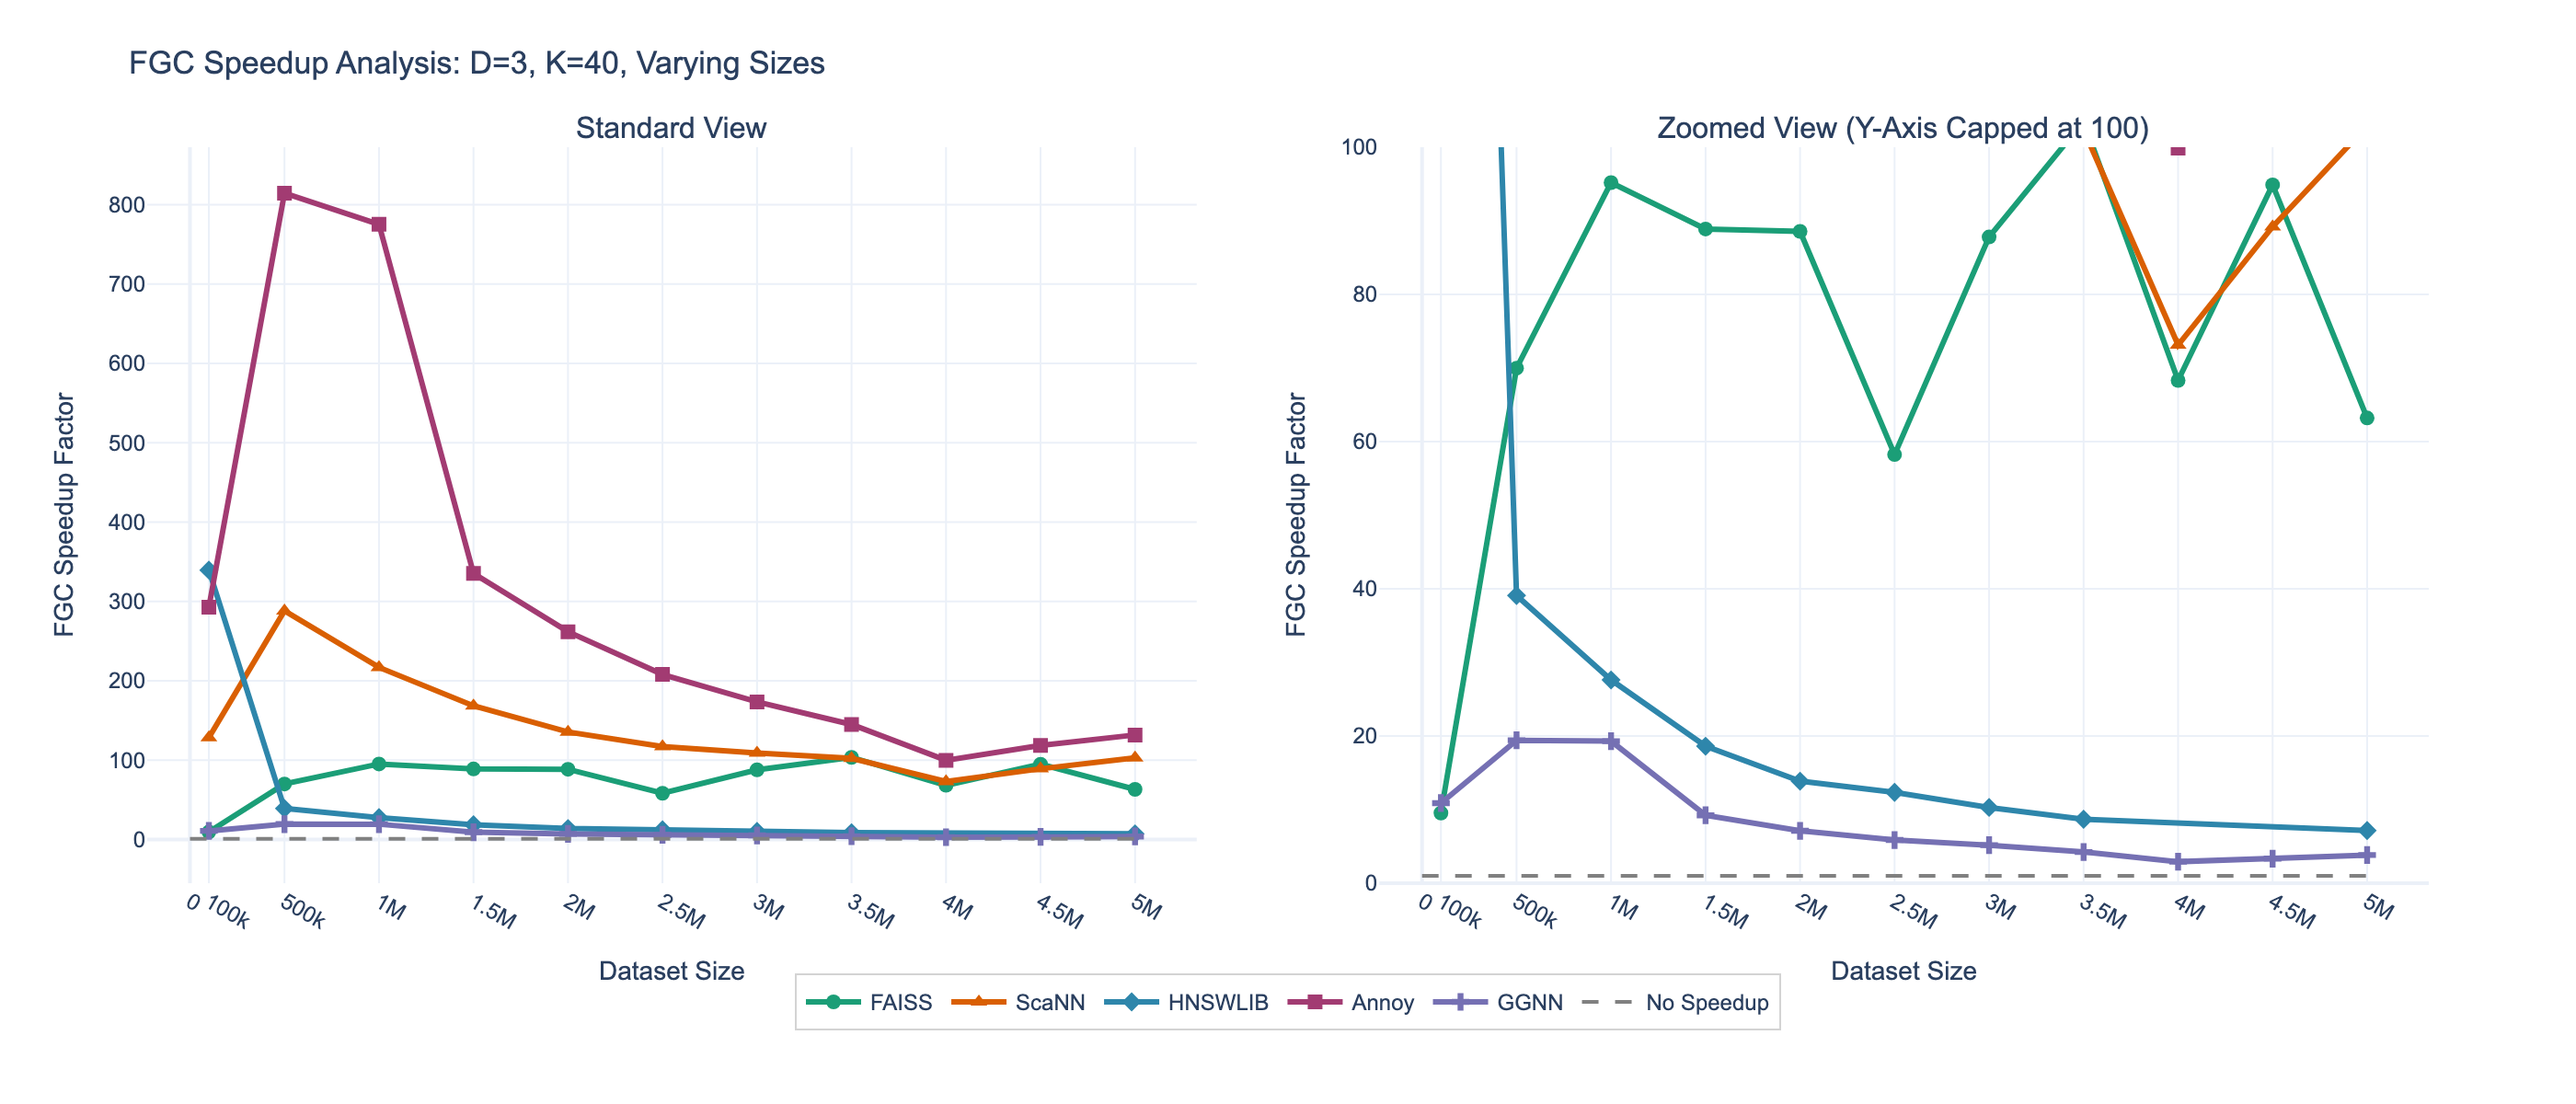
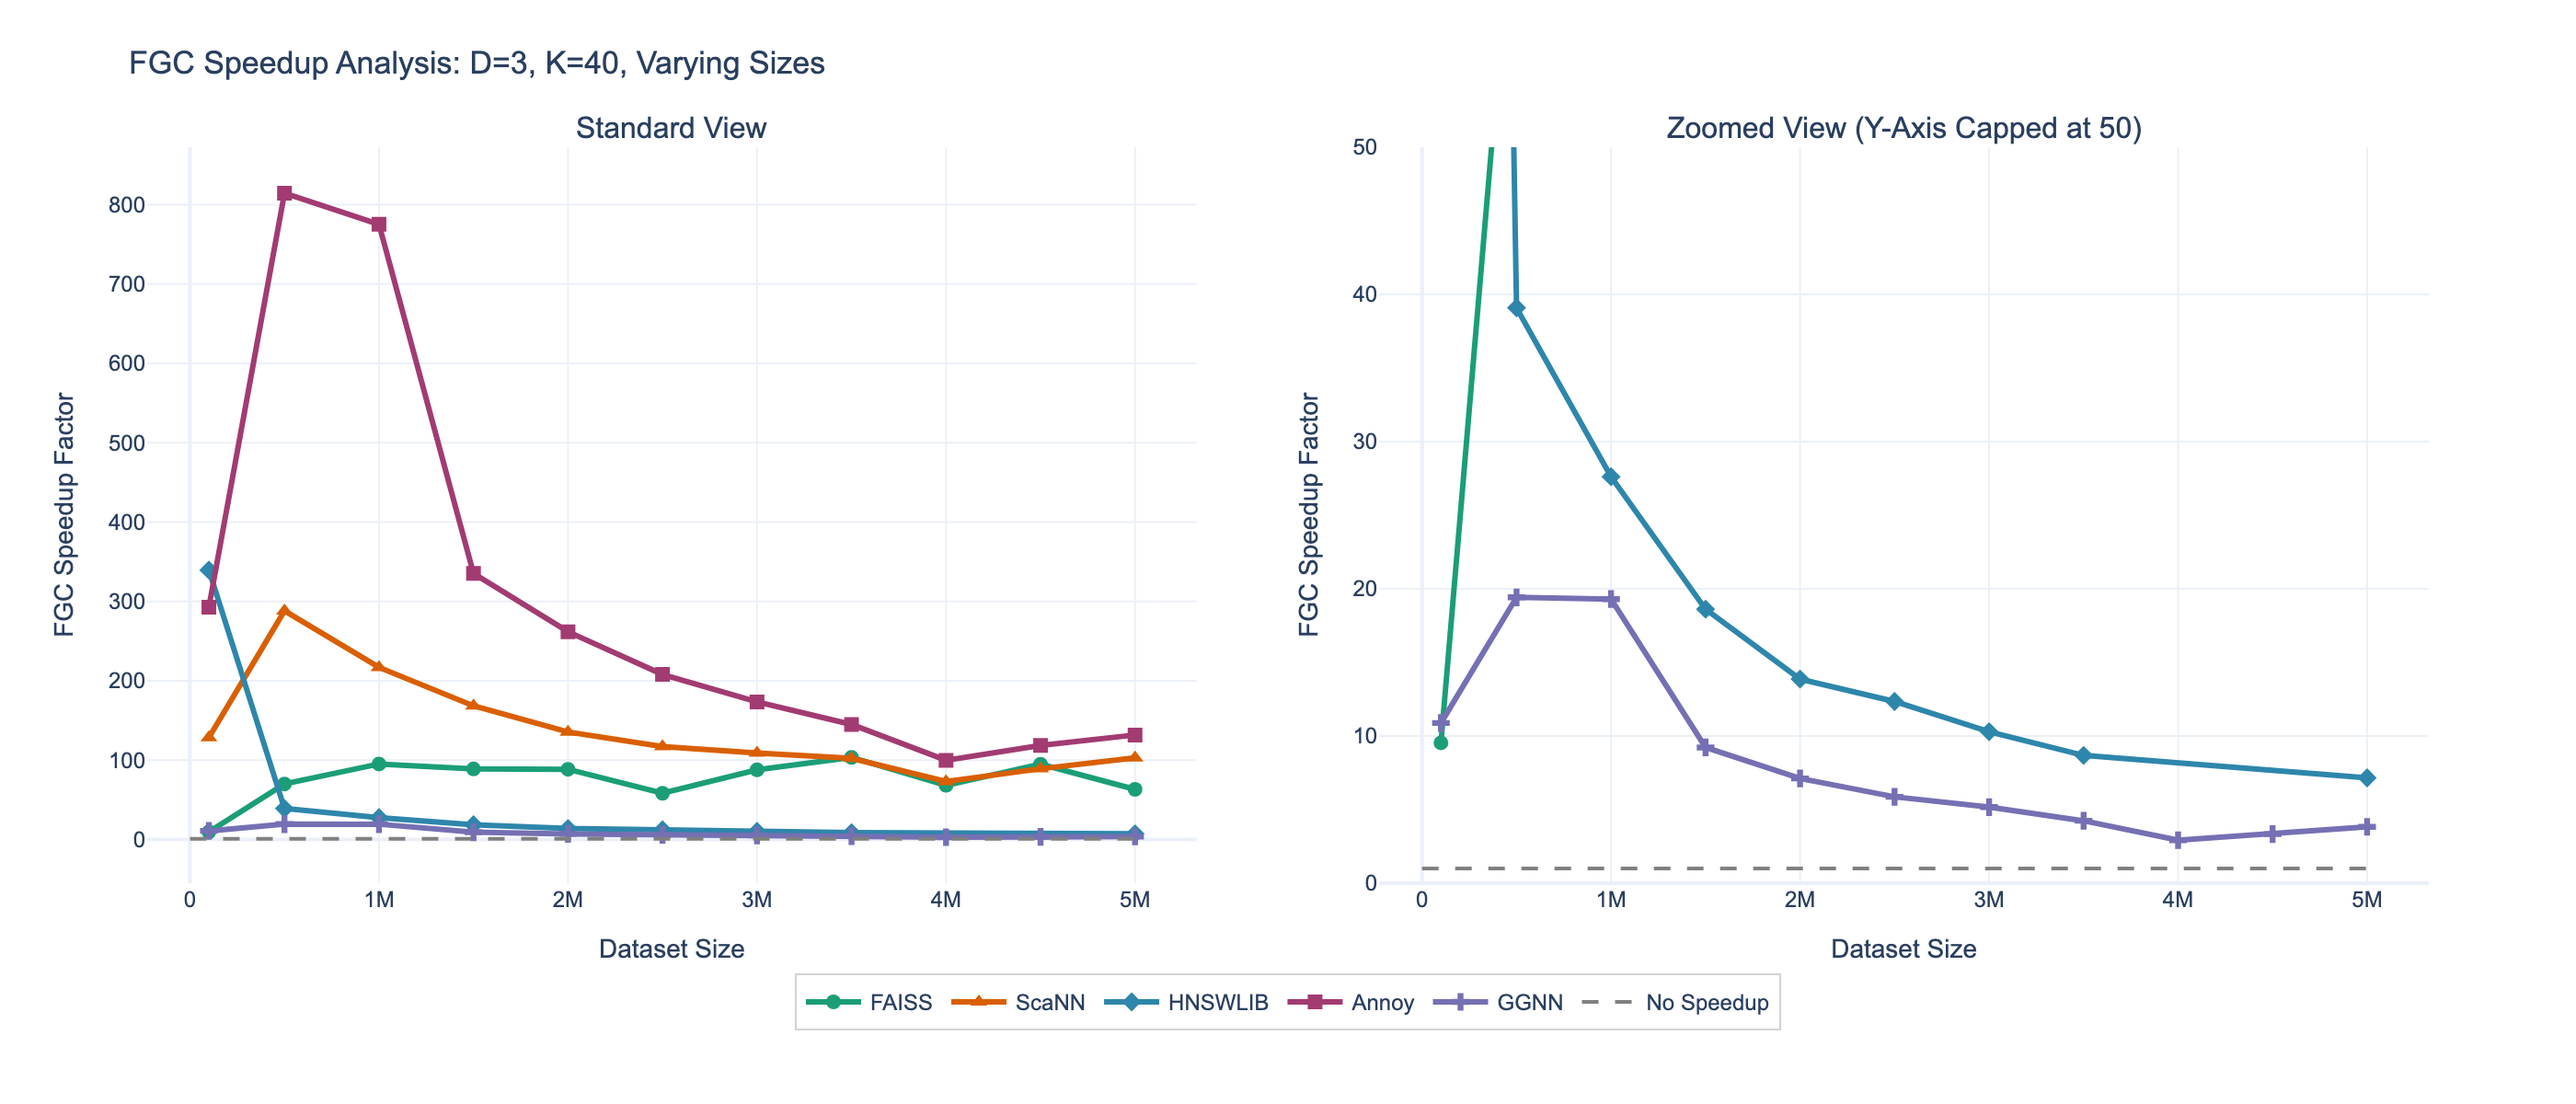
new plots and updated x axes

diff --git a/process_csvs.py b/process_csvs.py
@@ -351,15 +351,14 @@ def plot_fgc_speedup_analysis(data: pd.DataFrame, analysis_type: str, **kwargs) 
     )
 
     if analysis_type == 'sizes':
-        # Set tick marks to match filtered data points: 0, 100k, 500k, 1M, then every 500k
-        tick_vals = [0, 100_000, 500_000, 1_000_000]
-        tick_texts = ['0', '100k', '500k', '1M']
-        current_size = 1_500_000
+        # Set tick marks to show only every 1M: 0, 1M, 2M, 3M, 4M, 5M
+        tick_vals = [0]
+        tick_texts = ['0']
+        current_size = 1_000_000
         while current_size <= MAX_DATASET_SIZE:
             tick_vals.append(current_size)
-            tick_texts.append(f'{current_size//1_000_000}M' if current_size %
-                              1_000_000 == 0 else f'{current_size//1_000_000}.5M')
-            current_size += 500_000
+            tick_texts.append(f'{current_size//1_000_000}M')
+            current_size += 1_000_000
 
         fig.update_xaxes(
             tickmode='array',
@@ -470,15 +469,14 @@ def plot_side_by_side_with_zoom(data: pd.DataFrame, analysis_type: str, **kwargs
                      range=[0, y_axis_cap], row=1, col=2)
 
     if analysis_type == 'sizes':
-        # Set tick marks to match filtered data points: 0, 100k, 500k, 1M, then every 500k
-        tick_vals = [0, 100_000, 500_000, 1_000_000]
-        tick_texts = ['0', '100k', '500k', '1M']
-        current_size = 1_500_000
+        # Set tick marks to show only every 1M: 0, 1M, 2M, 3M, 4M, 5M
+        tick_vals = [0]
+        tick_texts = ['0']
+        current_size = 1_000_000
         while current_size <= MAX_DATASET_SIZE:
             tick_vals.append(current_size)
-            tick_texts.append(f'{current_size//1_000_000}M' if current_size %
-                              1_000_000 == 0 else f'{current_size//1_000_000}.5M')
-            current_size += 500_000
+            tick_texts.append(f'{current_size//1_000_000}M')
+            current_size += 1_000_000
 
         for col in [1, 2]:
             fig.update_xaxes(
